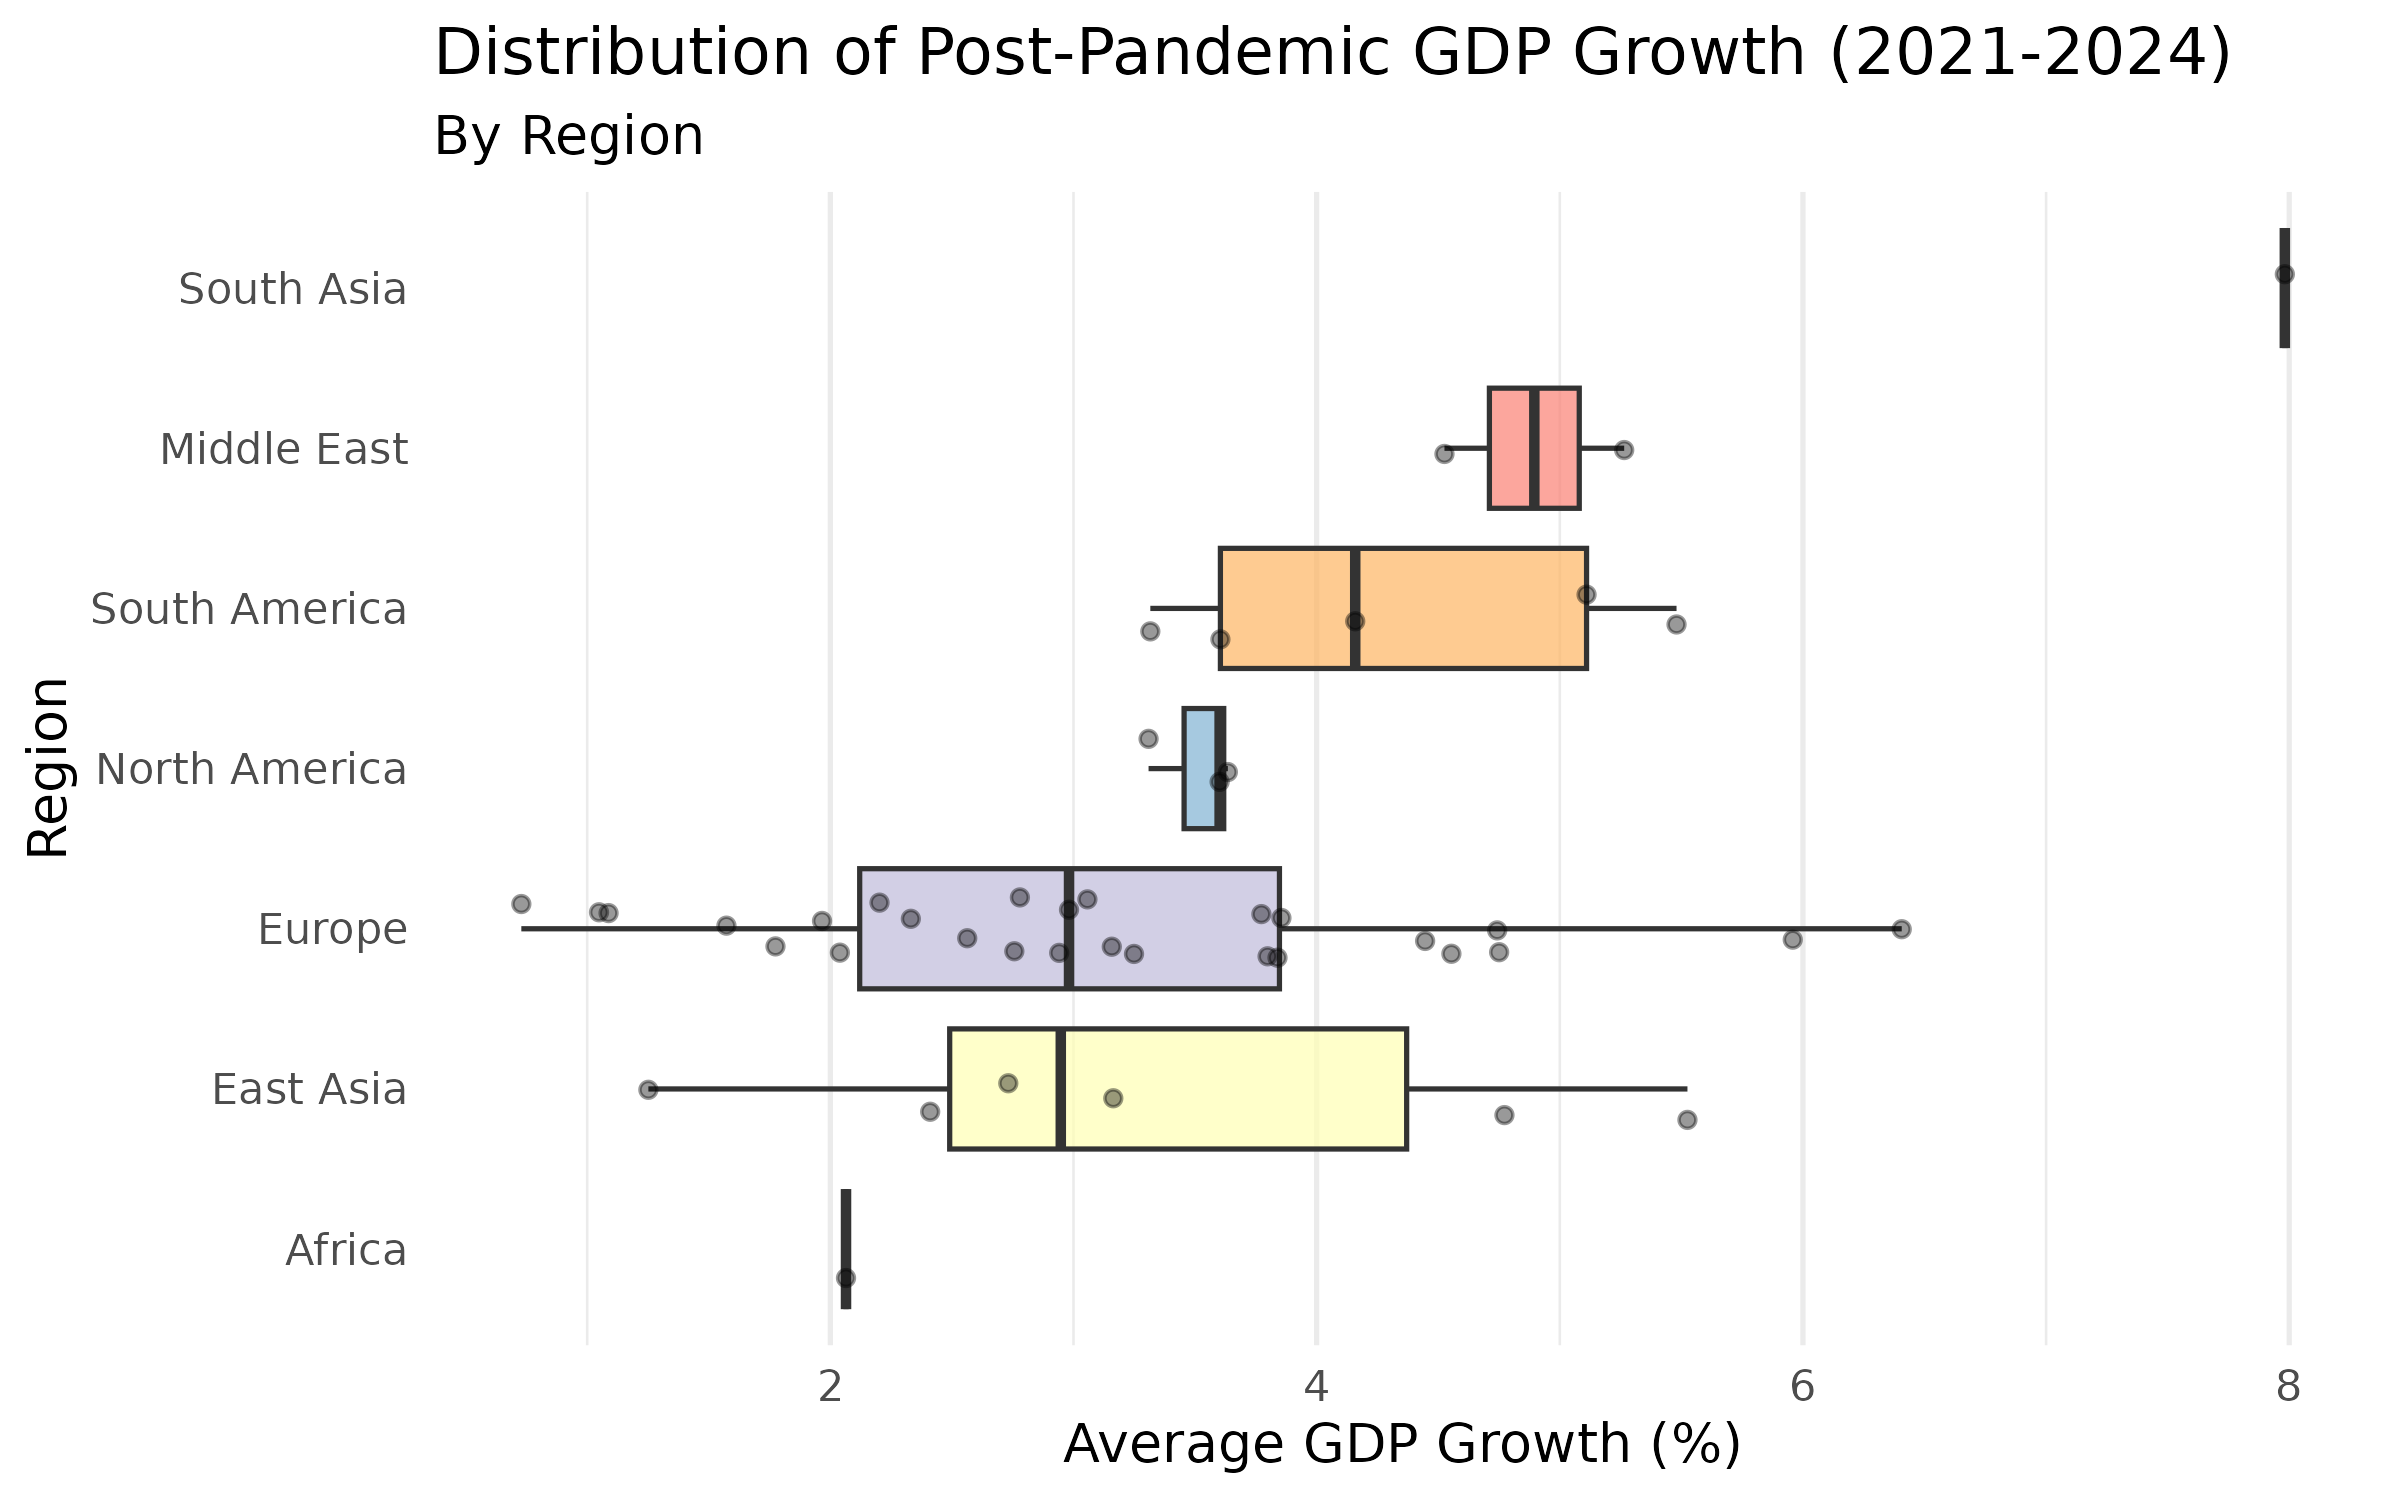
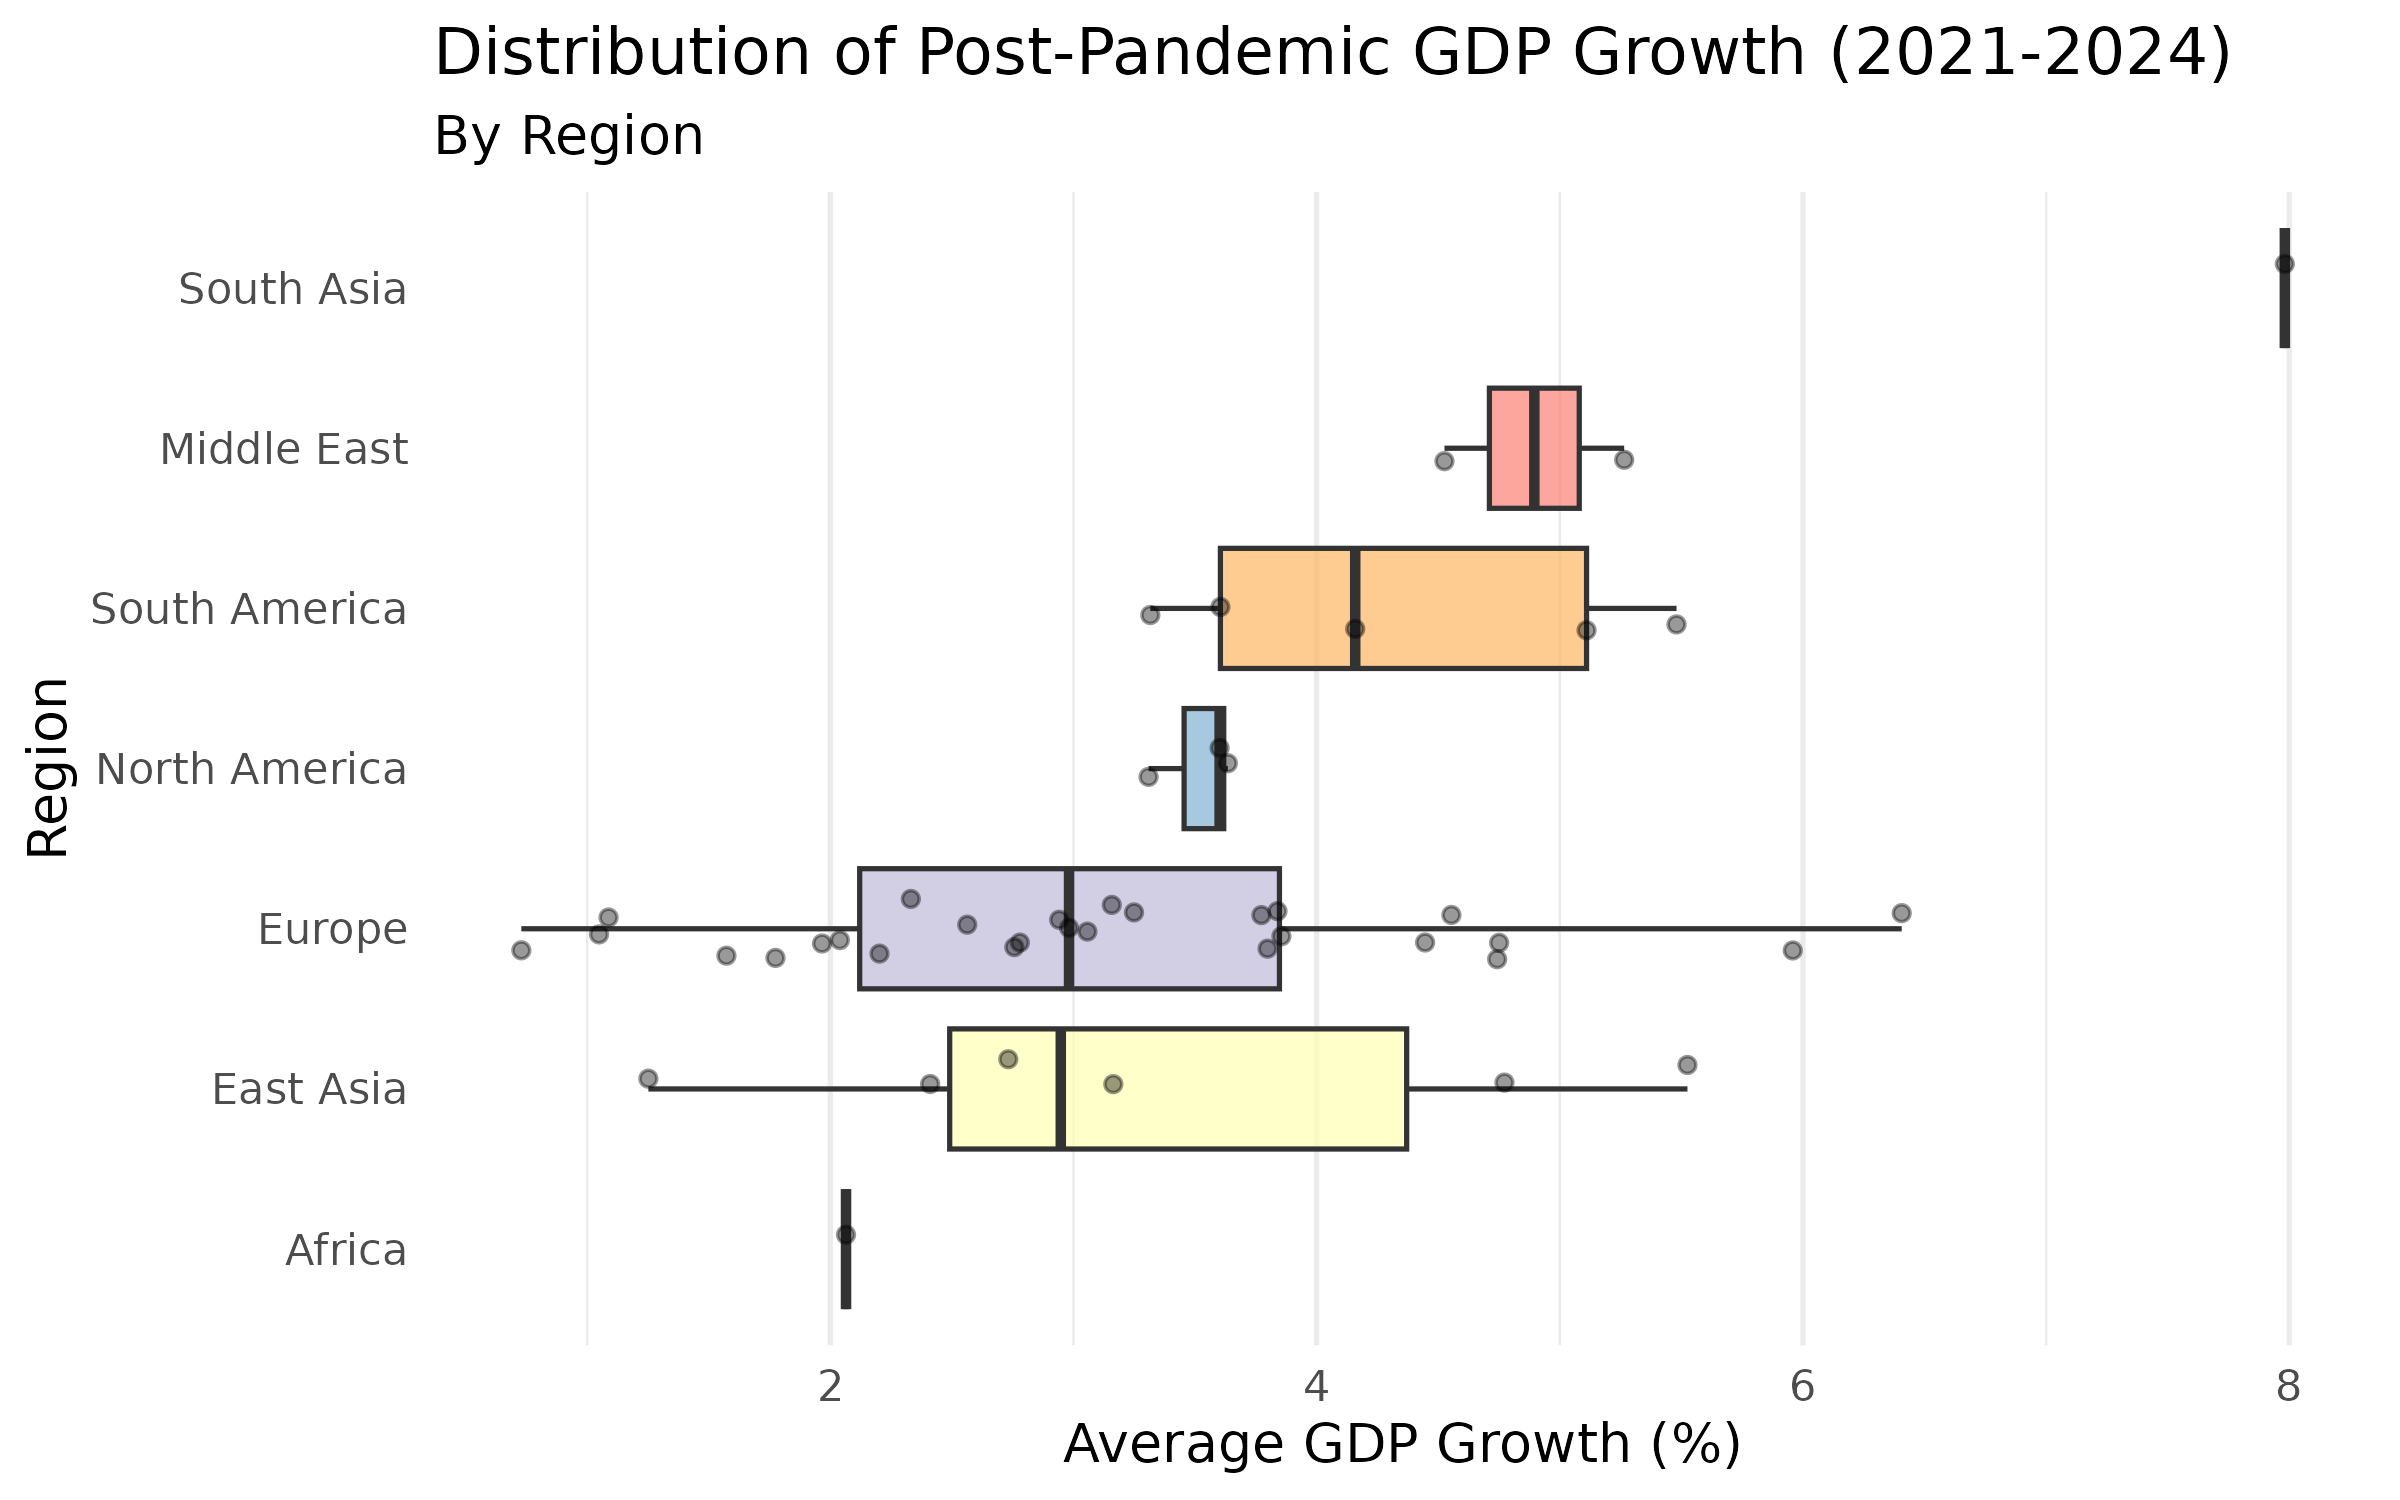
Knit proposal.rmd

diff --git a/proposal/proposal.md b/proposal/proposal.md
@@ -12,6 +12,7 @@ library(ggrepel)
 library(gganimate)  
 library(scales)  
 library(geomtextpath) # Provides geom_textpath
+library(countrycode)
 ```
 
 ``` r
@@ -668,3 +669,53 @@ growth_income_plot
 ```
 
 <img src="proposal_files/figure-gfm/plot5-scatterplot-Per-Capita-vs-Growth-1.png" alt="Scatterplot comparing average GDP per capita vs. annual GDP growth for 46 countries between 2021 and 2024. Each country is shown as a point, colored by OECD membership. OECD members are mostly clustered toward the right side of the plot with higher GDP per capita and weaker growth rates. Non OECD countries have lower GDP per capita and tend to appear on the left side of the plot with stronger growth rates. India and South Africa are labeled in blue and sit among the non OECD group. The United States and Denmark are labeled in orange within the OECD group. A downward sloping trendline shows that higher income countries experienced slower growth on average. Annotations mark the areas of lower income faster growth and higher income slower growth."  />
+
+\#Plot 6: Distribution of Post-Pandemic GDP Growth by Region
+
+``` r
+# Separate it into regions
+df_region <- gdp_growth_avg %>%
+  # Clean country names
+  mutate(Country = str_remove_all(Country, "[·\\u2007]")) %>%
+  mutate(Country = str_trim(Country)) %>%
+  # Create Region column
+  mutate(Region = countrycode(Country, origin = "country.name", destination = "region")) %>%
+  # Manual adjustments for specific World Bank groupings
+  mutate(Region = case_when(
+    Country %in% c("United States", "Canada", "Mexico") ~ "North America",
+    Country %in% c("China (People’s Republic of)", "Japan", "Korea", "Australia", "New Zealand", "Indonesia") ~ "East Asia",
+    Country == "India" ~ "South Asia",
+    Country %in% c("Israel", "Saudi Arabia") ~ "Middle East",
+    Country == "South Africa" ~ "Africa",
+    Country %in% c("Austria", "Belgium", "Czechia", "Denmark", "Estonia", "Finland", "France", "Germany", "Greece", "Hungary", "Iceland", "Ireland", "Italy", "Latvia", "Lithuania", "Luxembourg", "Netherlands", "Norway", "Poland", "Portugal", "Slovak Republic", "Slovenia", "Spain", "Sweden", "Switzerland", "Türkiye", "United Kingdom") ~ "Europe",
+    Country %in% c("Chile", "Colombia", "Costa Rica", "Argentina", "Brazil") ~ "South America",
+    TRUE ~ Region
+  )) %>%
+  # THIS LINE REMOVES THE NA REGIONS FROM THE PLOT
+  filter(!is.na(Region)) %>%
+  filter(!is.na(avg_growth))
+
+# Creating the boxplot
+plot6_region_boxplot <- df_region %>%
+  ggplot(aes(x = reorder(Region, avg_growth, FUN = median), y = avg_growth, fill = Region)) +
+  geom_boxplot(alpha = 0.7, outlier.shape = 16, outlier.size = 2) +
+  geom_jitter(height = 0, width = 0.2, alpha = 0.4, size = 1.5) +
+  coord_flip() +
+  labs(
+    title = "Distribution of Post-Pandemic GDP Growth (2021-2024)",
+    subtitle = "By Region",
+    x = "Region", 
+    y = "Average GDP Growth (%)"
+  ) +
+  theme_minimal(base_size = 13) +
+  theme(
+    legend.position = "none",
+    panel.grid.major.y = element_blank()
+  ) +
+  scale_fill_brewer(palette = "Set3")
+
+ggsave("plot6_region_boxplot.png", plot = plot6_region_boxplot, width = 8, height = 5)
+plot6_region_boxplot
+```
+
+<img src="proposal_files/figure-gfm/region-gdp-distribution-1.png" alt="Boxplot showing the distribution of annual GDP growth from 2021 to 2024 across World Bank regions. South Asia (represented by India) has the highest median growth but high variability. Emerging markets in East Asia and Latin America show wider ranges of growth, while North America and Europe &amp; Central Asia show tighter distributions, indicating more stable but moderate recovery."  />
